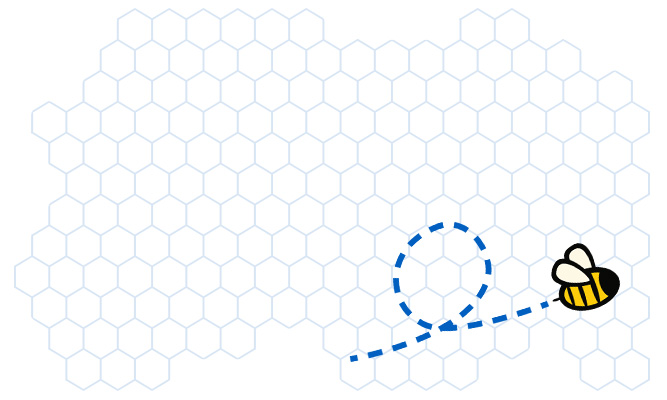
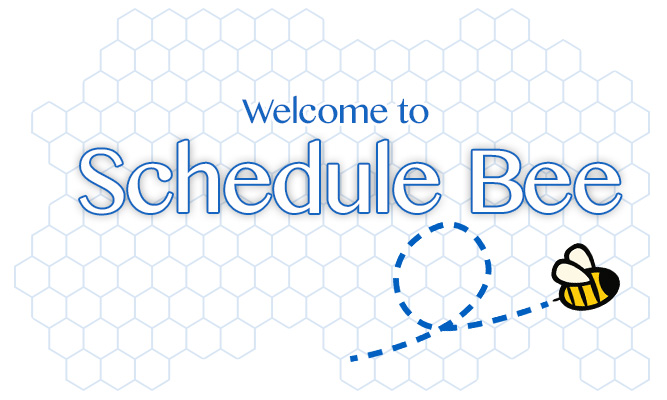
added picture and few mobile fixes

Changed region(s): [[0.09, 0.24, 0.6597, 0.54], [0.6897, 0.36, 0.9295, 0.54]]

diff --git a/client/components/HomePage.js b/client/components/HomePage.js
@@ -1,14 +1,13 @@
 import React from 'react';
 import { Link } from 'react-router';
+import frontPage from '../../app/assets/images/frontpage.jpg'
 
 class HomePage extends React.Component {
 	render() {
 		return(
 			<div className='center'>
-				<div id='frontpage'>
-					<h5>Welcome To</h5>
-					<h1>Schedule Bee</h1>
-				</div>
+				<img src={frontPage} id='frontpage' alt='Welcome to Schedule Bee' />
+				<br /> 
 				<Link to='/signup' style={styles.button}>Sign Up</Link>
         <Link to='/signin' style={styles.button}>Sign In</Link>
 			</div>

diff --git a/app/assets/stylesheets/application.scss b/app/assets/stylesheets/application.scss
@@ -1,7 +1,7 @@
 @import 'materialize';
 
 body {
-  background-color: #aaa;
+  background-color: #fff;
   // font-family: 'Arimo', sans-serif;
   // font-family: 'Poppins', sans-serif;
   // font-family: 'Oxygen', sans-serif;
@@ -72,13 +72,10 @@ body {
 }
 
 #frontpage {
-  background-image: url('frontpage.jpg');
-  width: 667px;
-  height: 400px;
+  width: 100%;
+  max-width: 667px;
+  height: auto;
   margin: 25px auto 50px;
-  padding-top: 75px;
-  color: #1565C0;
-  text-shadow: 0 0 5px #fff;
 }
 
 #frontpage h1 {
